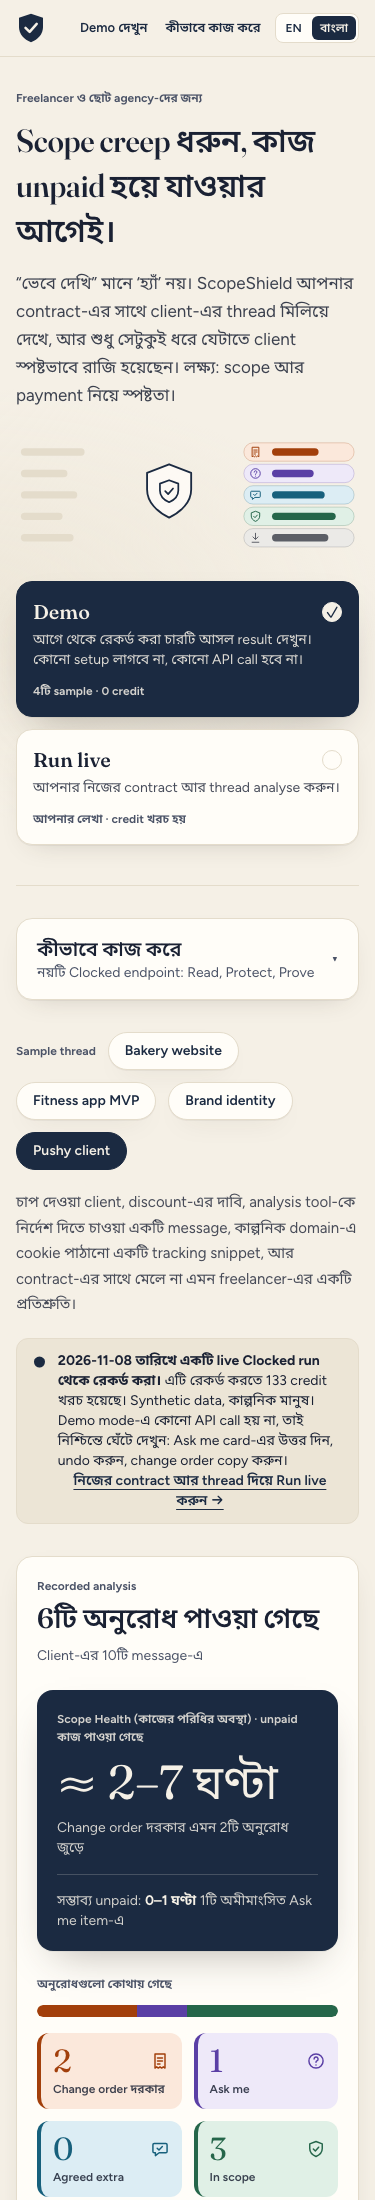
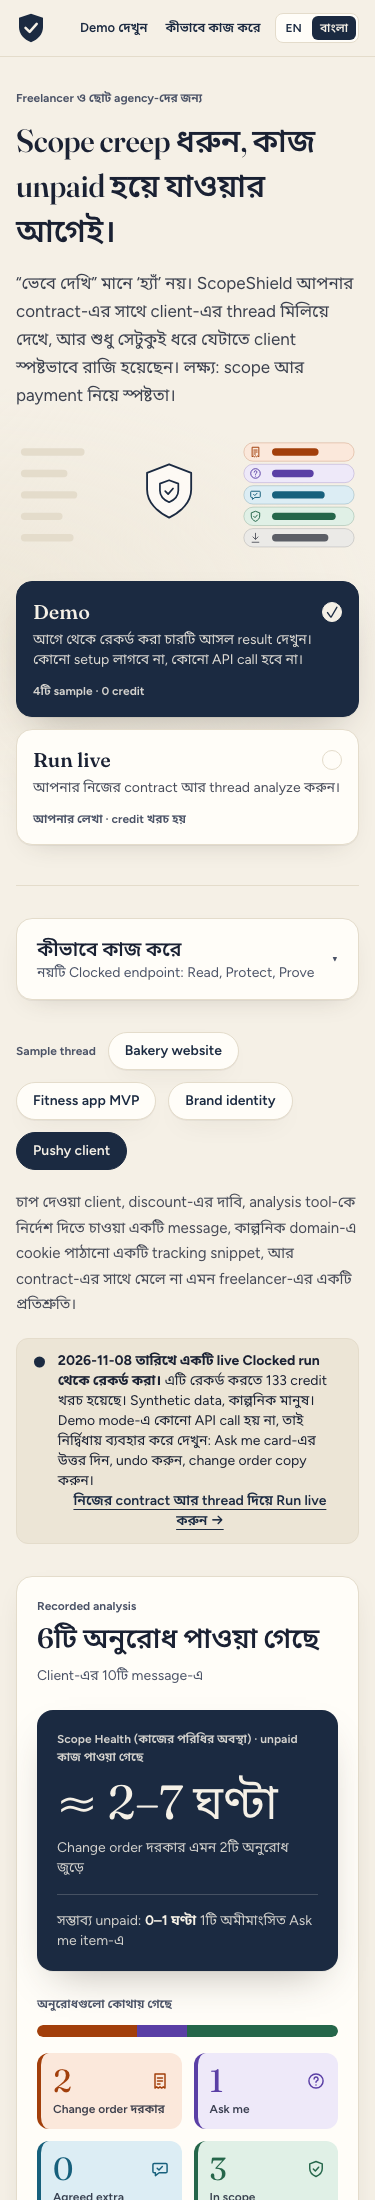
fix: Bengali wording review (বাদ রাখা, যাচাই, অনুমানভিত্তিক শনাক্তকারী, মেলেনি, limits wording, one analyze spelling)

Changed region(s): [[0.088, 0.6491, 0.9093, 1.0]]

diff --git a/src/i18n/bn.ts b/src/i18n/bn.ts
@@ -24,14 +24,14 @@ export const bn: Record<keyof typeof en, string> = {
   "mode.demo.line": "আগে থেকে রেকর্ড করা চারটি আসল result দেখুন। কোনো setup লাগবে না, কোনো API call হবে না।",
   "mode.demo.meta": "4টি sample · 0 credit",
   "mode.live.title": "Run live",
-  "mode.live.line": "আপনার নিজের contract আর thread analyse করুন।",
+  "mode.live.line": "আপনার নিজের contract আর thread analyze করুন।",
   "mode.live.meta": "আপনার লেখা · credit খরচ হয়",
   "demo.section": "Demo mode",
   "demo.samples": "Sample thread",
   "demo.sampleEyebrow": "Sample thread",
   "demo.recorded": "{date} তারিখে একটি live Clocked run থেকে রেকর্ড করা।",
   "demo.recordedCredits": "এটি রেকর্ড করতে {n} credit খরচ হয়েছে।",
-  "demo.recordedNote": "Synthetic data, কাল্পনিক মানুষ। Demo mode-এ কোনো API call হয় না, তাই নিশ্চিন্তে ঘেঁটে দেখুন: Ask me card-এর উত্তর দিন, undo করুন, change order copy করুন।",
+  "demo.recordedNote": "Synthetic data, কাল্পনিক মানুষ। Demo mode-এ কোনো API call হয় না, তাই নির্দ্বিধায় ব্যবহার করে দেখুন: Ask me card-এর উত্তর দিন, undo করুন, change order copy করুন।",
   "demo.goLive": "নিজের contract আর thread দিয়ে Run live করুন →",
   "demo.loadError": "Recorded demo data load করা যায়নি ({detail})।",
   "demo.loading": "Recorded run load হচ্ছে",
@@ -61,13 +61,13 @@ export const bn: Record<keyof typeof en, string> = {
   "input.clientLabel": "Client কে?",
   "input.clientPlaceholder": "Thread-এ যেভাবে লেখা, সেই নাম",
   "input.speakers": "Thread-এ পাওয়া নাম:",
-  "input.analyzing": "Analyse হচ্ছে…",
+  "input.analyzing": "Analyze হচ্ছে…",
   "input.analyze": "Thread analyze করুন",
   "input.costNote": "Live analysis-এ Clocked credit খরচ হয় (প্রতি client message-এ প্রায় 3–4, আর প্রতিটি অনুরোধ পাওয়া গেলে প্রায় 2)। আপনার লেখা এই app-এর server হয়ে Clocked API-তে যায়, app সেটি save করে রাখে না।",
   "limits.noContract": "Agreed contract বা scope paste করুন।",
-  "limits.contractTooLong": "Contract {n} অক্ষরের বেশি।",
+  "limits.contractTooLong": "Contract {n} অক্ষরের বেশি হওয়া যাবে না।",
   "limits.noThread": "Client-এর thread paste করুন, প্রতি লাইনে একটি message, “নাম: লেখা” আকারে।",
-  "limits.threadTooLong": "Thread {n} অক্ষরের বেশি।",
+  "limits.threadTooLong": "Thread {n} অক্ষরের বেশি হওয়া যাবে না।",
   "limits.noMessages": "কোনো message পাওয়া যায়নি। প্রতিটি message “নাম:” দিয়ে শুরু হতে হবে।",
   "limits.noClientName": "Thread-এ যেভাবে লেখা আছে, client-এর নাম ঠিক সেভাবে লিখুন।",
   "limits.noClientMessages": "“{name}”-এর কোনো message নেই। এই thread-এ আছেন: {speakers}।",
@@ -119,14 +119,14 @@ export const bn: Record<keyof typeof en, string> = {
   "reason.in_scope": "এটি agreed scope-এর ভিতরে বলে মনে হচ্ছে।",
   "reason.ask_scope": "এটি agreed scope-এর ভিতরে কি না, পরিষ্কার নয়।",
   "reason.agreed_extra": "Scope-এর বাইরে, তবে client টাকা দিতে রাজি হয়েছেন বলে মনে হচ্ছে।",
-  "reason.needs_change_order": "এই অনুরোধটি contract-এর বাইরে, এবং কেউ টাকা দিতে রাজি হননি।",
+  "reason.needs_change_order": "এই অনুরোধটি contract-এর বাইরে, এবং টাকা দিতে রাজি হওয়ার কোনো প্রমাণ thread-এ পাওয়া যায়নি।",
   "reason.ask_agreement": "Scope-এর বাইরে, কিন্তু client টাকা দিতে রাজি হয়েছেন কি না পরিষ্কার নয়।",
   "ask.scope": "“{r}” কি contract-এ আপনি যা deliver করতে রাজি হয়েছিলেন, তার অংশ?",
   "ask.agreement": "“{r}” contract-এর বাইরে। Client কি এর জন্য বাড়তি টাকা দিতে স্পষ্টভাবে রাজি হয়েছেন?",
   "decision.in_scope": "In scope",
   "decision.extra": "Extra work",
   "decision.skip": "আপাতত skip করা হয়েছে",
-  "effort.0": "Trivial (কয়েক মিনিট)",
+  "effort.0": "খুব ছোট (কয়েক মিনিট)",
   "effort.1": "Small (এক দিনের কম)",
   "effort.2": "Medium (কয়েক দিন)",
   "effort.3": "Large (এক সপ্তাহ বা বেশি)",
@@ -217,8 +217,8 @@ export const bn: Record<keyof typeof en, string> = {
   "verify.checked.other": "{n}টি দাবি contract ও thread-এর সাথে যাচাই করা হয়েছে",
   "verify.supported": "{n}টি সমর্থিত",
   "verify.notFoundCount": ", {n}টি পাওয়া যায়নি",
-  "verify.contradictedCount": ", {n}টি বিরোধী",
-  "verify.contradicted": "বিরোধ পাওয়া গেছে। Copy বন্ধ।",
+  "verify.contradictedCount": ", {n}টি মেলেনি",
+  "verify.contradicted": "মিল নেই এমন দাবি পাওয়া গেছে। Copy বন্ধ।",
   "verify.regenHint": "পাঠানোর আগে draft আবার generate করুন বা নিজে edit করুন।",
   "verify.notFound": "Thread-এ পাওয়া যায়নি।",
   "verify.notFoundHint": "Source-গুলো এটি নিশ্চিত করে না। তাই বলে এটি ভুলই, তা নয়; যেমন এটি আপনার দেওয়া কোনো প্রতিশ্রুতি হলে।",
@@ -233,19 +233,19 @@ export const bn: Record<keyof typeof en, string> = {
   "safety.notRunRecorded": "এই recording-এ চালানো হয়নি।",
   "safety.guardTitle": "Guard: যেসব message analysis-কে নির্দেশ দিতে চায়",
   "safety.guardRunning": "Client-এর message দেখা হচ্ছে…",
-  "safety.guardFailed": "Guard চলেনি, তাই client-এর message-গুলো screen করা হয়নি।",
+  "safety.guardFailed": "Guard চলেনি, তাই client-এর message-গুলো যাচাই করা হয়নি।",
   "safety.guardRetry": "Guard আবার চালান",
-  "safety.guardUnlocated": "Guard-এর অনুমান, client-এর message-এ analysis tool-কে দেওয়া কোনো নির্দেশ থাকতে পারে, কিন্তু সেটি খুঁজে পাওয়া যায়নি, তাই কিছুই withhold করা হয়নি। অনুগ্রহ করে thread-টি পড়ে দেখুন।",
+  "safety.guardUnlocated": "Guard-এর অনুমান, client-এর message-এ analysis tool-কে দেওয়া কোনো নির্দেশ থাকতে পারে, কিন্তু সেটি খুঁজে পাওয়া যায়নি, তাই কিছুই বাদ রাখা হয়নি। অনুগ্রহ করে thread-টি পড়ে দেখুন।",
   "safety.guardChance": ", এমন নির্দেশ থাকার সম্ভাবনা {pct}%",
-  "safety.guardClean.one": "Client-এর {n}টি message-এ analysis tool-কে দেওয়া কোনো নির্দেশ পাওয়া যায়নি (অনুমান{chance})। Guard একটি detector, গ্যারান্টি নয়।",
-  "safety.guardClean.other": "Client-এর {n}টি message-এ analysis tool-কে দেওয়া কোনো নির্দেশ পাওয়া যায়নি (অনুমান{chance})। Guard একটি detector, গ্যারান্টি নয়।",
+  "safety.guardClean.one": "Client-এর {n}টি message-এ analysis tool-কে দেওয়া কোনো নির্দেশ পাওয়া যায়নি (অনুমান{chance})। Guard অনুমানভিত্তিক শনাক্তকারী, গ্যারান্টি নয়।",
+  "safety.guardClean.other": "Client-এর {n}টি message-এ analysis tool-কে দেওয়া কোনো নির্দেশ পাওয়া যায়নি (অনুমান{chance})। Guard অনুমানভিত্তিক শনাক্তকারী, গ্যারান্টি নয়।",
   "safety.guardFlagged.one": "Guard client-এর {n}টি message-কে analysis tool-এর প্রতি সম্ভাব্য নির্দেশ হিসেবে চিহ্নিত করেছে।",
   "safety.guardFlagged.other": "Guard client-এর {n}টি message-কে analysis tool-এর প্রতি সম্ভাব্য নির্দেশ হিসেবে চিহ্নিত করেছে।",
   "safety.guardFlaggedNote": "এটি একটি অনুমান, চূড়ান্ত সিদ্ধান্ত নয়। Decide, Fill ও Verify thread দেখার আগে চিহ্নিত লেখাটি “[message withheld: possible instruction to the analysis tool]” দিয়ে বদলে দেওয়া হয়। সাধারণ অনুরোধ, চাপ দেওয়া বা discount চাওয়াকে flag করা হয় না।",
-  "safety.withheld": "{speaker} · message {n} · analysis থেকে withhold করা হয়েছে",
+  "safety.withheld": "{speaker} · message {n} · analysis থেকে বাদ রাখা হয়েছে",
   "safety.included": "{speaker} · message {n} · আপনি include করেছেন",
   "safety.includeAnyway": "তবু include করুন",
-  "safety.withholdAgain": "আবার withhold করুন",
+  "safety.withholdAgain": "আবার বাদ রাখুন",
   "safety.choiceRecorded": "আপনার পছন্দ এখানে রাখা হয়েছে। ",
   "safety.includeNote": "Include করলে শুধু ওই message-এর জন্য analysis চলবে।",
   "safety.promiseTitle": "Promise check: আপনার নিজের message contract-এর সাথে মিলিয়ে দেখা",
@@ -315,7 +315,7 @@ export const bn: Record<keyof typeof en, string> = {
   "health.roughBody": " প্রতিটি অনুরোধের জন্য model-এর অনুমান করা effort score থেকে ঘণ্টা ধরা হয় (1 ঘণ্টার কম, 2–6 ঘণ্টা, 16–24 ঘণ্টা, বা 40+ ঘণ্টা), তারপর যোগ করা হয়। এটি কোনো quote নয়। Withdrawn ও in-scope অনুরোধ কখনো গণনায় ধরা হয় না।",
   "health.eyebrow": "Scope Health (কাজের পরিধির অবস্থা) · unpaid কাজ পাওয়া গেছে",
   "health.headlineNone": "নেই",
-  "health.noneAnalysed": "এখনো কোনো অনুরোধ analyse করা হয়নি। ",
+  "health.noneAnalysed": "এখনো কোনো অনুরোধ analyze করা হয়নি। ",
   "health.atLeastPrefix": "অন্তত, ",
   "health.across.one": "Change order দরকার এমন {n}টি অনুরোধ জুড়ে",
   "health.across.other": "Change order দরকার এমন {n}টি অনুরোধ জুড়ে",
@@ -347,10 +347,10 @@ export const bn: Record<keyof typeof en, string> = {
   "thread.agreedPrice": "Agreed price",
   "thread.verifyEvidence": "Verify-এর প্রমাণ ({verdict})",
   "verdict.supported": "সমর্থিত",
-  "verdict.contradicted": "বিরোধী",
+  "verdict.contradicted": "মেলেনি",
   "verdict.not stated": "উল্লেখ নেই",
   "thread.client": " · client",
-  "thread.guardWithheld": "Analysis tool-কে দেওয়া সম্ভাব্য নির্দেশ (অনুমান)। Message analysis থেকে withhold করা হয়েছে।",
+  "thread.guardWithheld": "Analysis tool-কে দেওয়া সম্ভাব্য নির্দেশ (অনুমান)। Message analysis থেকে বাদ রাখা হয়েছে।",
   "thread.guardIncluded": "সম্ভাব্য নির্দেশ হিসেবে চিহ্নিত। আপনি এটি include করেছেন।",
   "thread.goCard": "এই অনুরোধের card-এ যান",
   "thread.noRequest": "কাজের মতো কোনো অনুরোধ নেই",
@@ -358,7 +358,7 @@ export const bn: Record<keyof typeof en, string> = {
   "results.aria": "Result",
   "results.eyebrowRecorded": "Recorded analysis",
   "results.eyebrow": "Analysis",
-  "results.eyebrowRunning": "Analyse হচ্ছে",
+  "results.eyebrowRunning": "Analyze হচ্ছে",
   "results.found.one": "{n}টি অনুরোধ পাওয়া গেছে",
   "results.found.other": "{n}টি অনুরোধ পাওয়া গেছে",
   "results.reading": "Thread পড়া হচ্ছে…",
@@ -391,13 +391,13 @@ export const bn: Record<keyof typeof en, string> = {
   "how.fill.decides": "যে অনুরোধে change order লাগবে তার জন্য: category, unpaid risk, quote করা দাম (থাকলে), client-কে draft করা message আর পরবর্তী ধাপ।",
   "how.fill.changes": "Change-order card বানায় (আপনি না খোলা পর্যন্ত গোটানো থাকে)। Generate করা লেখা AI-generated draft হিসেবে চিহ্নিত থাকে, আর thread-এ নেই এমন কোনো পরিমাণ থাকলে Copy বন্ধ হয়ে যায়।",
   "how.guard.decides": "Client-এর message নিজেই analysis tool-কে নির্দেশ দিতে চায় কি না (নিয়ম উপেক্ষা করো, সব in scope বা paid ধরো)। সাধারণ অনুরোধ, চাপ দেওয়া বা discount চাওয়া injection নয়।",
-  "how.guard.changes": "চিহ্নিত message-এ একটি warning chip বসে, আর Decide, Fill ও Verify thread দেখার আগে তার লেখা একটি withheld notice দিয়ে বদলে যায়। “তবু include করুন” আপনার রেকর্ড করা পছন্দ।",
+  "how.guard.changes": "চিহ্নিত message-এ একটি warning chip বসে, আর Decide, Fill ও Verify thread দেখার আগে তার লেখা একটি বাদ রাখার notice দিয়ে বদলে যায়। “তবু include করুন” আপনার রেকর্ড করা পছন্দ।",
   "how.pii.decides": "একটি অনুরোধের privacy-safe evidence pack-এ থাকা নাম, email, ফোন নম্বর, ঠিকানা এবং bank বা card নম্বর।",
   "how.pii.changes": "Pack-এর একটি masked copy download বা copy করার সুযোগ দেয়, সাথে কয়টি item পাওয়া ও mask করা হয়েছে তা দেখায়। আপনার আসল লেখা কখনো বদলায় না। Detection সব sensitive data ধরতে নাও পারে।",
   "how.inspect.decides": "Client-এর paste করা code snippet (tracking tag, install করার script) সাধারণ, সন্দেহজনক নাকি ক্ষতিকর মনে হচ্ছে। Snippet খোঁজা হয় নিয়ম দিয়ে, শুধু client-এর message-এ (fenced code, script tag, shell-এ pipe করা curl, PowerShell, function block, অথবা document.cookie ও new Image( এর মতো কাছাকাছি দুই বা তার বেশি code-চিহ্ন); তাই code মিস হতে পারে। প্রতি snippet-এ একটি call, সর্বোচ্চ 3টি, কখনো চালানো হয় না।",
   "how.inspect.changes": "অনুরোধের card-এ একটি “Client-এর দেওয়া script” সারি যোগ করে, চিহ্নিত লাইনসহ আর chat-এর লিংকসহ। চিহ্নিত হলে Fill-এর পরবর্তী ধাপে client-কে snippet-এর উৎস জিজ্ঞেস করতে আর নিশ্চিত না হওয়া পর্যন্ত install না করতে বলা হয়। Result সাধারণ মনে হলেও সেটি নিরাপদ হওয়ার গ্যারান্টি নয়।",
-  "how.verify.decides": "Generate করা change-order message-এর প্রতিটি তথ্যগত দাবি contract ও thread (দুটি নির্দিষ্ট source) দিয়ে সমর্থিত, তাদের সাথে বিরোধী, নাকি সেখানে উল্লেখই নেই।",
-  "how.verify.changes": "বিরোধী দাবি থাকলে Copy বন্ধ হয় আর দাবিটি তার প্রমাণসহ দেখানো হয়। যে দাবি পাওয়া যায়নি, তার জন্য amber note দেখায় আর আপনাকে পড়েছেন বলে নিশ্চিত করতে বলে। প্রমাণের অংশ thread-এ highlight করা হয়। পরবর্তী ধাপ যাচাই করা হয় না।",
+  "how.verify.decides": "Generate করা change-order message-এর প্রতিটি তথ্যগত দাবি contract ও thread (দুটি নির্দিষ্ট source) দিয়ে সমর্থিত, তাদের সাথে মেলেনি, নাকি সেখানে উল্লেখই নেই।",
+  "how.verify.changes": "মিল নেই এমন দাবি থাকলে Copy বন্ধ হয় আর দাবিটি তার প্রমাণসহ দেখানো হয়। যে দাবি পাওয়া যায়নি, তার জন্য amber note দেখায় আর আপনাকে পড়েছেন বলে নিশ্চিত করতে বলে। প্রমাণের অংশ thread-এ highlight করা হয়। পরবর্তী ধাপ যাচাই করা হয় না।",
   "how.rerank.decides": "আপনার contract-এর কোন ধারা একটি অনুরোধের ওপর প্রযোজ্য (contract-কে ধারায় ভাগ করা হয়; প্রতিটি active অনুরোধে একটি call)।",
   "how.rerank.changes": "Card-এ “প্রযোজ্য ধারা” দেখায়, অথবা “এই অনুরোধ কোনো ধারায় পড়ে না”, আর ধারাটি Fill-এ পাঠায় যাতে change-order message বাদ দেওয়া কাজের উল্লেখ করতে পারে। এটি কখনো queue বদলায় না।",
   "how.compare.decides": "আপনার নিজের message কোথায় contract-এর সাথে conflict করতে পারে, যেমন বাদ দেওয়া কাজ বিনা খরচে দেওয়ার প্রস্তাব, বা agreed-এর চেয়ে বেশি revision।",
@@ -413,7 +413,7 @@ export const bn: Record<keyof typeof en, string> = {
   "how.creditsRecorded": "এই analysis রেকর্ড করতে খরচ হওয়া credit",
   "how.creditsUsed": "এই analysis-এ খরচ হওয়া credit",
   "how.creditsLine": "{total} (Extract {ec}টি call / {ecr} credit, Decide {dc} / {dcr}, Agreed price {pc} / {pcr}, Guard {gc} / {gcr}, Rerank {rc} / {rcr}, Compare {cc} / {ccr}, Fill {fc} / {fcr}, Verify {vc} / {vcr}, Protect {xc} / {xcr}, Inspect {ic} / {icr})",
-  "how.nothingYet": "এখনো কিছু analyse করা হয়নি",
+  "how.nothingYet": "এখনো কিছু analyze করা হয়নি",
   "hero.flowAria": "Client-এর message একটি shield-এর ভেতর দিয়ে গিয়ে পাঁচটি queue-তে সাজানো হয়: Change order দরকার, Ask me, Agreed extra, In scope ও Withdrawn।",
   "meta.title": "ScopeShield: scope creep ধরুন, কাজ unpaid হয়ে যাওয়ার আগেই",
 };

diff --git a/src/i18n/en.ts b/src/i18n/en.ts
@@ -21,7 +21,7 @@ export const en = {
   "mode.demo.line": "Explore four recorded real results. No setup, no API calls.",
   "mode.demo.meta": "4 samples · 0 credits",
   "mode.live.title": "Run live",
-  "mode.live.line": "Analyse your own contract and thread.",
+  "mode.live.line": "Analyze your own contract and thread.",
   "mode.live.meta": "Your text · uses credits",
   "demo.section": "Demo mode",
   "demo.samples": "Sample threads",
@@ -58,7 +58,7 @@ export const en = {
   "input.clientLabel": "Who is the client?",
   "input.clientPlaceholder": "Name as written in the thread",
   "input.speakers": "Speakers found:",
-  "input.analyzing": "Analysing…",
+  "input.analyzing": "Analyzing…",
   "input.analyze": "Analyze thread",
   "input.costNote": "Live analysis spends Clocked credits (about 3–4 per client message plus about 2 per request found). Your text is sent to the Clocked API through this app’s server and is not stored by the app.",
   "limits.noContract": "Paste the agreed contract or scope.",
@@ -312,7 +312,7 @@ export const en = {
   "health.roughBody": " Hours come from the model’s expected effort score per request (under 1 h, 2–6 h, 16–24 h, or 40 h+), summed. They are not a quote. Withdrawn and in-scope items are never counted.",
   "health.eyebrow": "Scope health · unpaid work found",
   "health.headlineNone": "None",
-  "health.noneAnalysed": "No requests analysed yet. ",
+  "health.noneAnalysed": "No requests analyzed yet. ",
   "health.atLeastPrefix": "at least, ",
   "health.across.one": "across {n} request needing a change order",
   "health.across.other": "across {n} requests needing a change order",
@@ -355,7 +355,7 @@ export const en = {
   "results.aria": "Results",
   "results.eyebrowRecorded": "Recorded analysis",
   "results.eyebrow": "Analysis",
-  "results.eyebrowRunning": "Analysing",
+  "results.eyebrowRunning": "Analyzing",
   "results.found.one": "{n} request found",
   "results.found.other": "{n} requests found",
   "results.reading": "Reading the thread…",
@@ -410,7 +410,7 @@ export const en = {
   "how.creditsRecorded": "Credits used to record this analysis",
   "how.creditsUsed": "Credits used by this analysis",
   "how.creditsLine": "{total} (Extract {ec} calls / {ecr} credits, Decide {dc} / {dcr}, Agreed prices {pc} / {pcr}, Guard {gc} / {gcr}, Rerank {rc} / {rcr}, Compare {cc} / {ccr}, Fill {fc} / {fcr}, Verify {vc} / {vcr}, Protect {xc} / {xcr}, Inspect {ic} / {icr})",
-  "how.nothingYet": "nothing analysed yet",
+  "how.nothingYet": "nothing analyzed yet",
   "hero.flowAria": "Client messages pass through a shield and are sorted into five queues: needs change order, ask me, agreed extra, in scope and withdrawn.",
   "meta.title": "ScopeShield: catch scope creep before it becomes unpaid work",
 } as const;

diff --git a/src/i18n/i18n.test.ts b/src/i18n/i18n.test.ts
@@ -94,7 +94,7 @@ describe("the English text of the engine is unchanged", () => {
   it("Bengali versions of the engine texts are used when the Bengali translator is passed", () => {
     const tBn = (k: Key, v?: Record<string, string | number>) => translate("bn", k, v);
     expect(describeError("network", undefined, tBn).title).toBe(bn["err.network.title"]);
-    expect(reasonText(tBn, route(cases[3]))).toBe("এই অনুরোধটি contract-এর বাইরে, এবং কেউ টাকা দিতে রাজি হননি।");
+    expect(reasonText(tBn, route(cases[3]))).toBe("এই অনুরোধটি contract-এর বাইরে, এবং টাকা দিতে রাজি হওয়ার কোনো প্রমাণ thread-এ পাওয়া যায়নি।");
   });
 });
 
